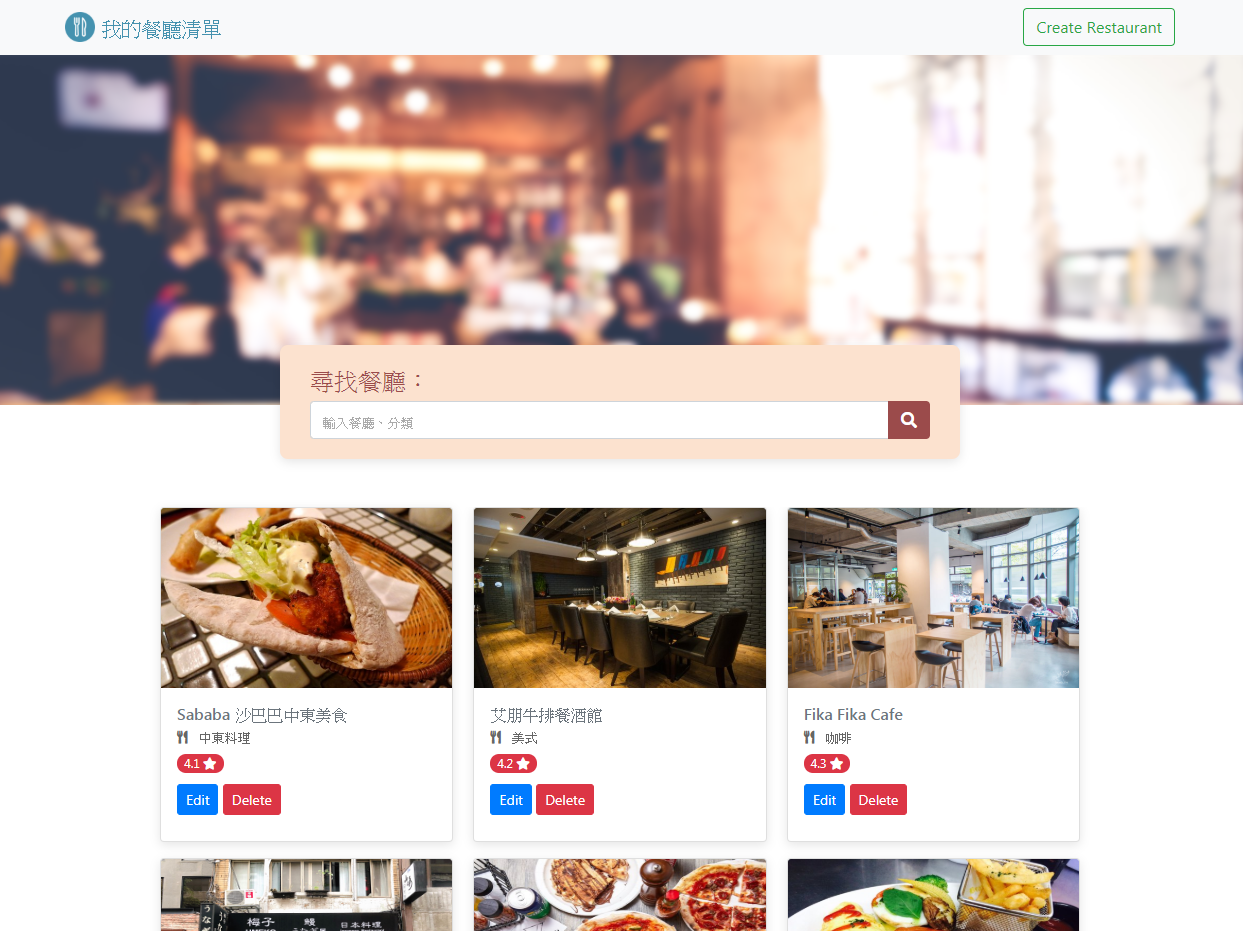
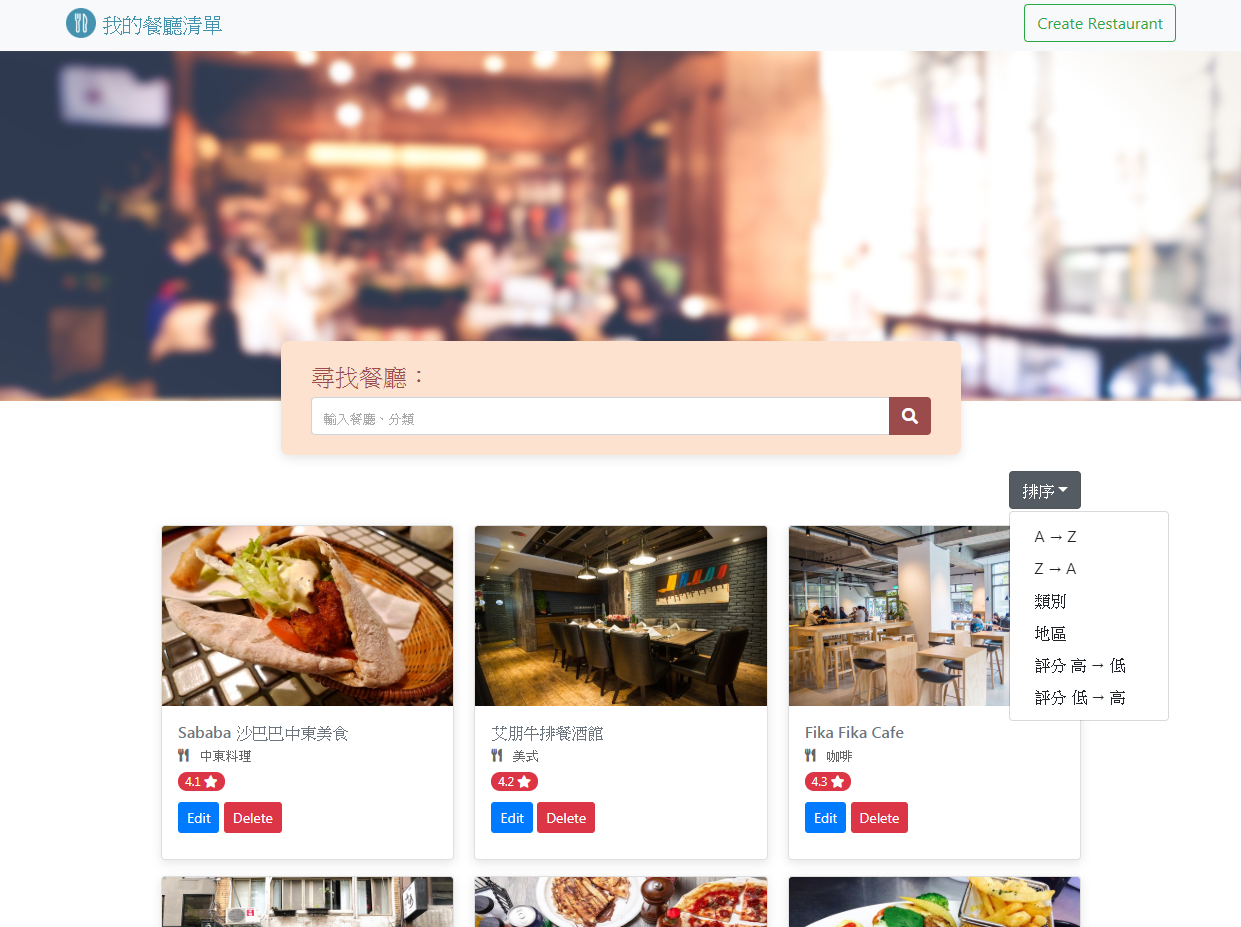
Update README.md

diff --git a/routes/search.js b/routes/search.js
@@ -1,6 +1,5 @@
 const express = require('express')
 const router = express.Router()
-// const restaurantList = require('../restaurant.json').results
 const Restaurant = require('../models/restaurant.js')
 const Handlebars = require('handlebars')
 
@@ -11,7 +10,6 @@ Handlebars.registerHelper('ifEquals', function(arg1, options) {
 router.get('/', (req, res) => {
   sortObject = {}
   sortObject[req.query.ref] = req.query.sort
-  console.log('sortObject', sortObject)
 
   Restaurant.find({})
     .sort(sortObject)
@@ -26,3 +24,5 @@ router.get('/', (req, res) => {
       res.render('index', { restaurant, keyword, sort, search })
     })
 })
+
+module.exports = router

diff --git a/app.js b/app.js
@@ -7,8 +7,6 @@ const exphbs = require('express-handlebars')
 const bodyParser = require('body-parser')
 const mongoose = require('mongoose')
 const methodOverride = require('method-override')
-const Handlebars = require('handlebars')
-
 const Restaurant = require('./models/restaurant.js')
 
 // setting template engine

diff --git a/README.md b/README.md
@@ -13,7 +13,9 @@
 - body-parser: ^1.19.0
 - express: ^4.17.1
 - express-handlebars: ^3.1.0
+- handlebars: ^4.2.0
 - mongoose: ^5.6.13
+- method-override: ^3.0.0
 
 ## 安裝與執行步驟
 
@@ -22,7 +24,7 @@
 在終端機(Terminal)輸入
 
 ```
-git colone https://github.com/wendyhsiao/restaurant_list_v1_A9.git
+git colone https://github.com/wendyhsiao/restaurant_list_v2_A10.git
 ```
 
 如果在終端機訊息中看見「done」，就表示成功了！
@@ -33,10 +35,10 @@ git colone https://github.com/wendyhsiao/restaurant_list_v1_A9.git
 
 #### 執行步驟
 
-1.在終端機(Terminal)切換到 restaurant_list_v1_A9 目錄下
+1.在終端機(Terminal)切換到 restaurant_list_v2_A10 目錄下
 
 ```
-cd restaurant_list_v1_A9
+cd restaurant_list_v2_A10
 ```
 
 2.安裝套件
@@ -45,13 +47,22 @@ cd restaurant_list_v1_A9
 npm install
 ```
 
-3.使用 nodemon 啟動伺服器
+3.建立種子資料
 
 ```
+cd restaurant_list_v2_A10/models/seeds
+node Seeder.js
+```
+
+4.回到 restaurant_list_v2_A10 目錄下
+使用 nodemon 啟動伺服器
+
+```
+cd restaurant_list_v2_A10
 nodemon app.js
 ```
 
-4.在瀏覽器輸入網址 `localhost:3000`即可看到內容
+5.在瀏覽器輸入網址 `localhost:3000`即可看到內容
 
 ## 功能描述
 
@@ -63,12 +74,16 @@ nodemon app.js
 - 增加編輯按鈕，可修改餐廳資料內容
 - 增加刪除按鈕，可把不想要的餐廳刪除
 
+- 增加排序按鈕，可以按照不同方式排序餐廳
+
 ## 專案畫面
 
-![image](https://github.com/wendyhsiao/restaurant_list_v1_A9/blob/master/public/img/index.PNG)
+![image](https://github.com/wendyhsiao/restaurant_list_v2_A10/blob/master/public/img/index.PNG)
 
-![image](https://github.com/wendyhsiao/restaurant_list_v1_A9/blob/master/public/img/detail.PNG)
+![image](https://github.com/wendyhsiao/restaurant_list_v2_A10/blob/master/public/img/search+sort.PNG)
 
-![image](https://github.com/wendyhsiao/restaurant_list_v1_A9/blob/master/public/img/edit.PNG)
+![image](https://github.com/wendyhsiao/restaurant_list_v2_A10/blob/master/public/img/detail.PNG)
 
-![image](https://github.com/wendyhsiao/restaurant_list_v1_A9/blob/master/public/img/create.PNG)
+![image](https://github.com/wendyhsiao/restaurant_list_v2_A10/blob/master/public/img/edit.PNG)
+
+![image](https://github.com/wendyhsiao/restaurant_list_v2_A10/blob/master/public/img/create.PNG)
